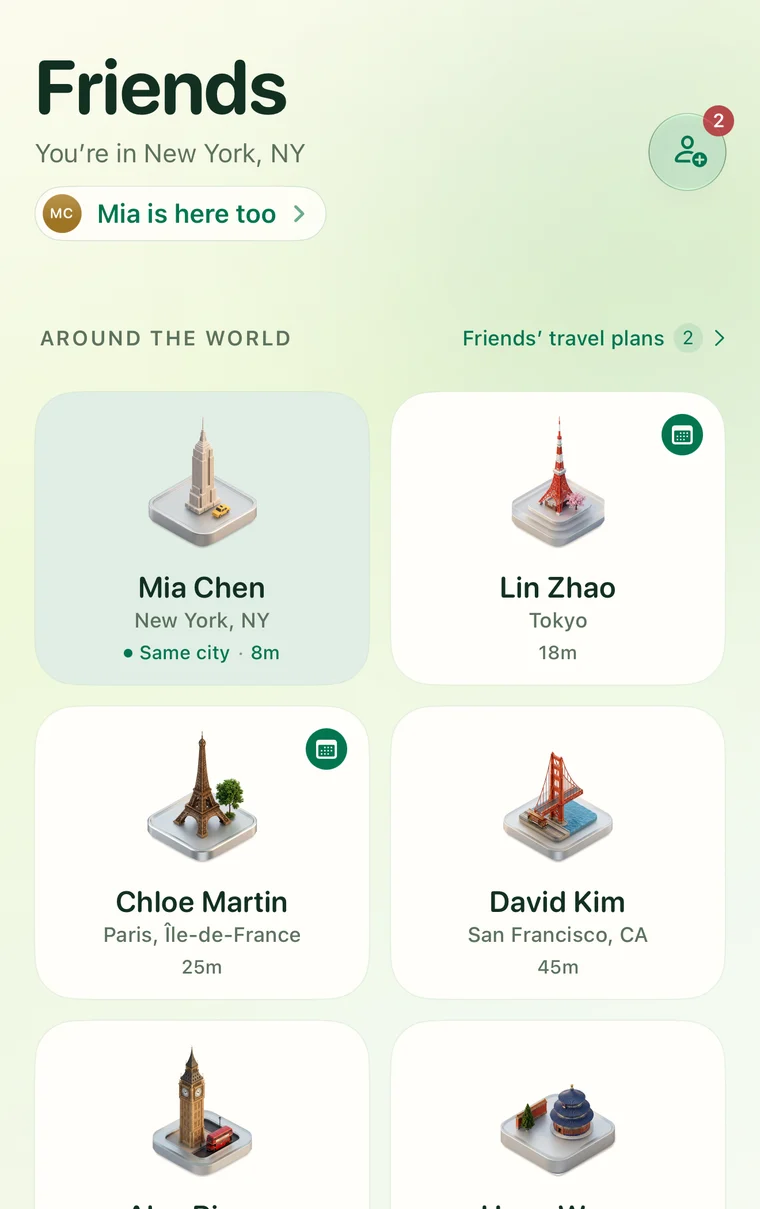
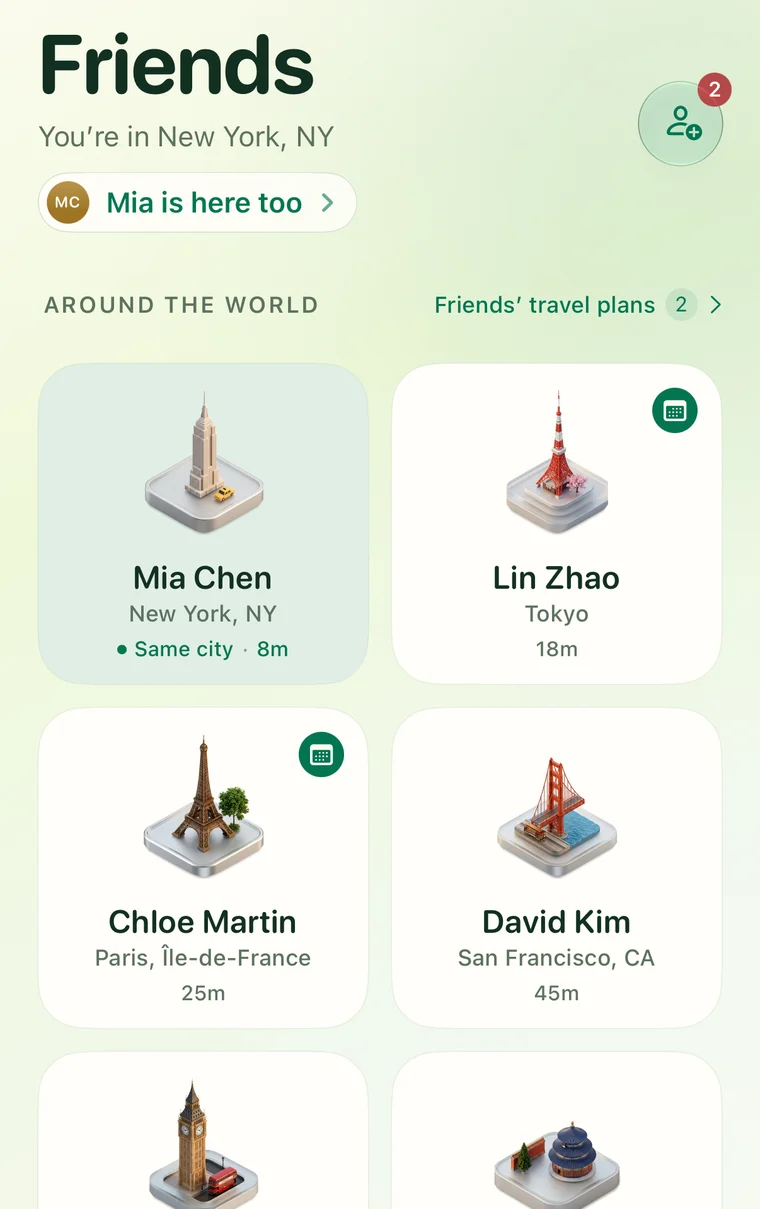
Show the 1.0.9 screens on the website and README
Replace the 1.0.8 captures with crops of the 1.0.9 App Store captures:
same-city moments, Together soon, per-friend controls, the trip globe
and the boarding pass. The Apple Maps routes screen no longer exists,
so the Trips section now leads with the globe. The privacy policy adds
Sign in with Google and email codes (Google and Resend as processors).

diff --git a/site/privacy/index.html b/site/privacy/index.html
@@ -207,7 +207,7 @@
     <div id="lang-en" class="lang-block active">
       <div class="policy-header">
         <h1 class="policy-title">Privacy Policy</h1>
-        <p class="policy-meta">Effective Date &amp; Last Updated: October 11, 2026</p>
+        <p class="policy-meta">Effective Date &amp; Last Updated: October 20, 2026</p>
       </div>
 
       <div class="highlight-card">
@@ -226,7 +226,7 @@
       <section class="policy-section">
         <h2>2. Information We Process</h2>
         <ul>
-          <li><strong>Account &amp; Authentication:</strong> Your account identifier associated with Sign in with Apple, your provided display name and username, avatar palette, and authentication/session information. These records are linked to your account, not anonymous. We do not request your phone address book or phone number.</li>
+          <li><strong>Account &amp; Authentication:</strong> The account identifier from the sign-in method you use (Sign in with Apple, Sign in with Google, or a one-time code sent to your email), the email address that method provides (with Sign in with Apple this can be a private relay address), your provided display name and username, avatar palette, and authentication/session information. These records are linked to your account, not anonymous. We do not request your phone address book or phone number.</li>
           <li><strong>City-Level Presence:</strong> Coarse city name, country code, state or administrative region when available, and update time (e.g., "New York, NY, US"). The app uses Apple location and geocoding services to resolve a city or accepts a city you choose manually. State or region helps distinguish places with the same name and choose regional artwork. It follows the same friend-sharing controls as your city. Precise device coordinates are not sent to our servers.</li>
           <li><strong>Same-City History:</strong> Same-city events and observed stay periods, including the city, involved friends and recorded start/end or event times, used for your history and alerts. These records are based on shared city updates, not a continuous GPS movement trail.</li>
           <li><strong>Friend Connections & Preferences:</strong> Friend requests, accepted friends, per-friend sharing toggles, and notification settings.</li>
@@ -249,6 +249,8 @@
           <li><strong>Accepted Friends:</strong> See your profile identity and the city presence you permit them to see. Friends selected on a personal plan can see its future city and dates by default, unless you turn off that plan's browsing switch. Changing the selected friends, turning off browsing, or deleting the plan changes what they can see on subsequent reads. Saving a plan does not send an announcement to all friends. City-sharing settings control city presence, not personal plans or information you separately share within a trip.</li>
           <li><strong>Authorized Trip Members:</strong> Can see the shared trip, participant identities and added flight details. Pausing city sharing does not automatically remove previously shared trip or flight content.</li>
           <li><strong>Apple:</strong> Sign in with Apple, location and geocoding services, maps, and APNs notification infrastructure. Apple's geocoding service can use network requests to turn device coordinates into a city.</li>
+          <li><strong>Google:</strong> If you choose Sign in with Google, Google authenticates you and shares your Google account identifier, email address and basic profile information (such as your name) with us. We use your name only to suggest a display name.</li>
+          <li><strong>Email Delivery (Resend):</strong> If you sign in with an email code, your email address and the one-time code are sent through Resend to deliver the sign-in email.</li>
           <li><strong>Cloud Infrastructure (Supabase):</strong> Encrypted database storage and serverless edge functions.</li>
           <li><strong>Flight Data (AeroDataBox through RapidAPI):</strong> Our server sends the requested flight number and departure date to obtain flight schedules/status. This lookup does not send your profile name, Apple account identifier or APNs token. The provider also receives technical request information from our server.</li>
         </ul>
@@ -267,7 +269,7 @@
     <div id="lang-zh" class="lang-block">
       <div class="policy-header">
         <h1 class="policy-title">隐私政策</h1>
-        <p class="policy-meta">生效与更新日期：2026 年 10 月 11 日</p>
+        <p class="policy-meta">生效与更新日期：2026 年 10 月 20 日</p>
       </div>
 
       <div class="highlight-card">
@@ -286,7 +288,7 @@
       <section class="policy-section">
         <h2>2. 我们处理的信息</h2>
         <ul>
-          <li><strong>账户与身份认证：</strong> 与 Apple 登录关联的账户标识符、你提供的显示名称与用户名、头像配色，以及认证和会话信息。这些记录关联至你的账户，并非匿名数据。我们不索取手机通讯录或手机号。</li>
+          <li><strong>账户与身份认证：</strong> 你所用登录方式（Apple 登录、Google 登录或邮箱验证码）关联的账户标识符，该方式提供的邮箱地址（使用 Apple 登录时可能是隐藏的转发邮箱），你提供的显示名称与用户名、头像配色，以及认证和会话信息。这些记录关联至你的账户，并非匿名数据。我们不索取手机通讯录或手机号。</li>
           <li><strong>城市级状态（Presence）：</strong> 通过 Apple 定位和地理编码服务解析或由你手动选择的城市、国家代码、可用时的州或行政区，以及更新时间。州或行政区用于区分同名地点和选择地区图标，遵循与城市相同的好友分享控制。精确设备坐标不发送至我们的服务器。</li>
           <li><strong>同城历史：</strong> 用于历史和提醒的同城事件及观测到的停留区间，包括城市、相关好友及记录的起止时间或事件时间。这些记录来自共享的城市更新，并非连续 GPS 移动轨迹。</li>
           <li><strong>好友关系与偏好：</strong> 好友申请、好友列表、单人/全局共享开关及小组件隐私模式。</li>
@@ -309,6 +311,8 @@
           <li><strong>已接受的好友：</strong> 可见你的资料身份及你允许共享的城市状态。个人计划中选中的好友默认可在“好友计划”看到该计划的未来城市和日期；你可以关闭该计划的浏览开关、调整所选好友或删除计划，后续查询会遵循这些设置。保存计划不会向所有好友发送公告。城市共享设置不控制个人计划或你另外在 Trip 中分享的信息。</li>
           <li><strong>有权访问行程的成员：</strong> 可见共享行程、参与者身份及所添加的航班详情。暂停城市共享不会自动移除已经共享的行程或航班内容。</li>
           <li><strong>Apple：</strong> 提供 Apple 登录、定位与地理编码、地图及 APNs 推送基础设施。Apple 地理编码服务可能通过网络请求将设备坐标转换为城市。</li>
+          <li><strong>Google：</strong> 如果你选择 Google 登录，Google 会完成身份验证，并向我们提供你的 Google 账户标识符、邮箱地址和基本资料（如姓名）。姓名仅用于建议显示名称。</li>
+          <li><strong>邮件发送（Resend）：</strong> 如果你使用邮箱验证码登录，你的邮箱地址和一次性验证码会通过 Resend 发送登录邮件。</li>
           <li><strong>云端服务（Supabase）：</strong> 提供加密数据库与无服务器计算支持。</li>
           <li><strong>航班数据（通过 RapidAPI 使用 AeroDataBox）：</strong> 后端发送所查询的航班号和出发日期以获取时刻及状态，不会在此查询中发送你的显示名称、Apple 账户标识或 APNs 令牌。供应商也会接收来自后端的技术请求信息。</li>
         </ul>

diff --git a/site/index.html b/site/index.html
@@ -120,21 +120,21 @@ details p{padding:0 40px 24px 0;color:var(--gray);font-size:16px;line-height:1.6
 <section id="features" class="wrap" aria-labelledby="features-title">
  <div class="intro"><h2 class="heading" id="features-title">Friends move. <span>Across Us keeps their cities, plans and flights in one place, so a chance to meet doesn’t slip past.</span></h2></div>
  <div class="bento">
-  <article class="card"><h3>Same city, same time. <span>See who’s in town with you, and choose who can trigger the alert.</span></h3><div class="card-art"><img src="assets/product/same-city.webp" width="680" height="545" alt="Here with you: New York, with Mia, Lin and Chloe and when each last shared their city." loading="lazy"></div></article>
-  <article class="card card-wide"><h3>Plans that line up. <span>When your plans overlap, see the days you’ll both be there.</span></h3><div class="card-art"><img src="assets/product/overlap.webp" width="900" height="656" alt="Tokyo with Lin: four days together, October 19 to 22, on a week timeline." loading="lazy"></div></article>
-  <article class="card card-wide"><h3>Their next stop. <span>Friends share a city and dates, so you know where they’re headed.</span></h3><div class="card-art"><img src="assets/product/plans.webp" width="900" height="784" alt="Friends’ travel plans lists Lin in Tokyo and Chloe in Paris, October 16 to 23." loading="lazy"></div></article>
+  <article class="card"><h3>All the days you shared a city. <span>Your time together, friend by friend, and who’s in town with you now.</span></h3><div class="card-art"><img src="assets/product/moments.webp" width="680" height="682" alt="Same-city moments: 22 days together with 4 friends in 6 cities. Mia is in New York with you now; Lin was last together with you in Tokyo on September 18." loading="lazy"></div></article>
+  <article class="card card-wide"><h3>Same city. Same dates. <span>Together soon shows the days your plans overlap.</span></h3><div class="card-art"><img src="assets/product/together-soon.webp" width="900" height="759" alt="Together soon: Tokyo with Lin, four days together, October 24 to 27, on a week calendar." loading="lazy"></div></article>
+  <article class="card card-wide"><h3>City-level only. Your call. <span>See a friend’s next stop, and choose who sees your city and who can trigger a same-city alert.</span></h3><div class="card-art"><img src="assets/product/friend-controls.webp" width="900" height="687" alt="Lin’s travel plan to Tokyo, October 21 to 28, above switches for Share my city and Same-city alert." loading="lazy"></div></article>
   <article class="card"><h3>On your Home Screen. <span>Widgets keep a few familiar faces close.</span></h3><div class="card-art"><img class="bare" src="assets/product/friends-light.webp" width="680" height="710" alt="The Friends widget shows four friends and their shared cities." loading="lazy"></div></article>
  </div>
 </section>
 <section id="trips" class="trips" aria-labelledby="trips-title">
  <div class="wrap">
-  <h2 class="heading" id="trips-title">Coming from everywhere. <span>Invite friends to a Trip and keep everyone’s flights and arrival times in one place.</span></h2>
+  <h2 class="heading" id="trips-title">Everyone lands together. <span>Invite friends to a Trip and watch every flight land where you’re meeting.</span></h2>
   <div class="trips-grid">
-   <figure><img src="assets/product/routes.webp" width="1000" height="1452" alt="The flight-route map shows London, Newark, Seattle and San Francisco connecting to Los Angeles." loading="lazy"></figure>
+   <figure><img src="assets/product/trip-globe.webp" width="1000" height="1327" alt="Kauai Thanksgiving: a globe with flights from Shanghai, New York and Oakland landing on Kauai, and a landing timeline for Lin, you and David." loading="lazy"></figure>
    <div class="trips-side">
-    <img src="assets/product/flight-details.webp" width="960" height="548" alt="Alex’s expanded flight details: London to Los Angeles, flight BA 281, British Airways, and arrival terminal." loading="lazy">
+    <img src="assets/product/boarding-pass.webp" width="960" height="945" alt="David’s boarding pass: United 1612 from New York JFK at 08:15 to Kauai at 20:05, leaving from Terminal 7, then 5 nights in Kauai." loading="lazy">
     <div class="points">
-     <div><h4>Everyone’s flights, down to the details</h4><p>Tap a flight for departure and arrival times, airline, terminal and status. Each traveler manages their own flights.</p></div>
+     <div><h4>Every flight, one tap away</h4><p>Tap anyone for their boarding pass: local times, terminal and the flight home. Each traveler manages their own flights.</p></div>
      <div><h4>A little nudge when it helps</h4><p>Choose flight-change alerts and morning reminders to add flights. Remind a friend who hasn’t added their outbound flight.</p></div>
      <div><h4>Room for plans to change</h4><p>Members can leave a Trip. The creator can remove members or delete the shared Trip.</p></div>
     </div>
@@ -150,7 +150,7 @@ details p{padding:0 40px 24px 0;color:var(--gray);font-size:16px;line-height:1.6
    <details><summary>What do friends see?</summary><p>Your shared city and its last update, plus the plans you choose to share with them. You can change who sees your updates, pause city sharing, or remove a friend.</p></details>
    <details><summary>Can I change plans or turn off reminders?</summary><p>Yes. Edit or delete personal plans, manage your own flights, and choose which trip reminders and alerts you want. Leaving a Trip also stops its alerts for you.</p></details>
    <details><summary>How current are the updates?</summary><p>Cities show the latest shared update. Notifications depend on your settings and device permissions. Flight information refreshes periodically; check final travel details with your airline.</p></details>
-   <details><summary>How do I get started?</summary><p>Download Across Us for iPhone, sign in with Apple, and add a friend by username or invitation link. Share a city or your next plan, then invite the people you want to see along the way.</p></details>
+   <details><summary>How do I get started?</summary><p>Download Across Us for iPhone, sign in with Apple, Google or a code sent to your email, and add a friend by username or invitation link. Share a city or your next plan, then invite the people you want to see along the way.</p></details>
   </div>
  </div>
 </section>

diff --git a/README.md b/README.md
@@ -46,34 +46,34 @@ Across Us keeps their cities, plans and flights in one place, so a chance to mee
 <table>
   <tr>
     <td width="33%" valign="top">
-      <img src="site/assets/product/same-city.webp" alt="Here with you: New York, with Mia, Lin and Chloe.">
-      <h3>Same city, same time</h3>
-      See who’s in town with you, and choose who can trigger the alert.
+      <img src="site/assets/product/moments.webp" alt="Same-city moments: 22 days together with 4 friends in 6 cities.">
+      <h3>All the days you shared a city</h3>
+      Your time together, friend by friend, and who’s in town with you now.
     </td>
     <td width="33%" valign="top">
-      <img src="site/assets/product/overlap.webp" alt="Tokyo with Lin: four days together, October 19 to 22.">
-      <h3>Plans that line up</h3>
-      When your plans overlap, see the days you’ll both be there.
+      <img src="site/assets/product/together-soon.webp" alt="Together soon: Tokyo with Lin, four days together, October 24 to 27.">
+      <h3>Same city. Same dates.</h3>
+      Together soon shows the days your plans overlap.
     </td>
     <td width="33%" valign="top">
-      <img src="site/assets/product/plans.webp" alt="Friends’ travel plans: Lin in Tokyo, Chloe in Paris.">
-      <h3>Their next stop</h3>
-      Friends share a city and dates, so you know where they’re headed.
+      <img src="site/assets/product/friend-controls.webp" alt="Lin’s Tokyo plan above switches for Share my city and Same-city alert.">
+      <h3>Their next stop, your call</h3>
+      See a friend’s travel plans, and choose who sees your city and who can trigger an alert.
     </td>
   </tr>
 </table>
 
-## Coming from everywhere.
+## Everyone lands together.
 
-Invite friends to a **Trip** and keep everyone’s flights and arrival times in one place.
+Invite friends to a **Trip** and watch every flight land where you’re meeting.
 
 <p align="center">
-  <img src="site/assets/product/routes.webp" width="46%" alt="Flight routes from London, Newark, Seattle and San Francisco converging on Los Angeles.">
+  <img src="site/assets/product/trip-globe.webp" width="48%" alt="Kauai Thanksgiving: flights from Shanghai, New York and Oakland landing on Kauai, with a landing timeline.">
   &nbsp;
-  <img src="site/assets/product/flight-details.webp" width="50%" alt="Flight details: London to Los Angeles on British Airways BA 281.">
+  <img src="site/assets/product/boarding-pass.webp" width="48%" alt="David’s boarding pass: United 1612 from New York JFK to Kauai, leaving from Terminal 7.">
 </p>
 
-- **Every flight, down to the terminal.** Departure and arrival times, airline, terminal and live status. Each traveler manages their own.
+- **Every flight, one tap away.** Tap anyone for their boarding pass: local times, terminal and the flight home. Each traveler manages their own.
 - **A nudge when it helps.** Flight-change alerts, morning reminders, and a tap to remind a friend who hasn’t added their flight.
 - **Room for plans to change.** Members can leave; the creator can remove members or delete the Trip.
 
